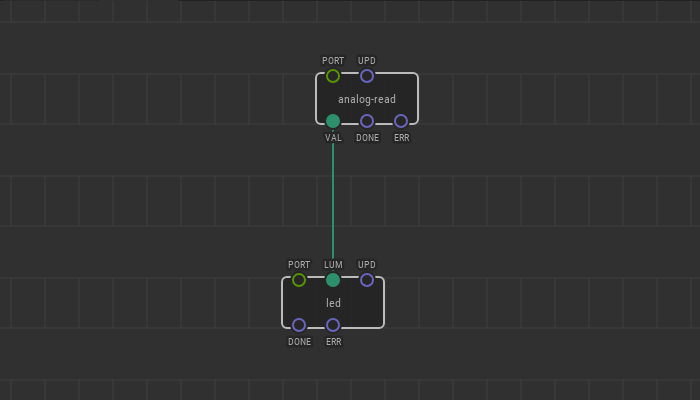
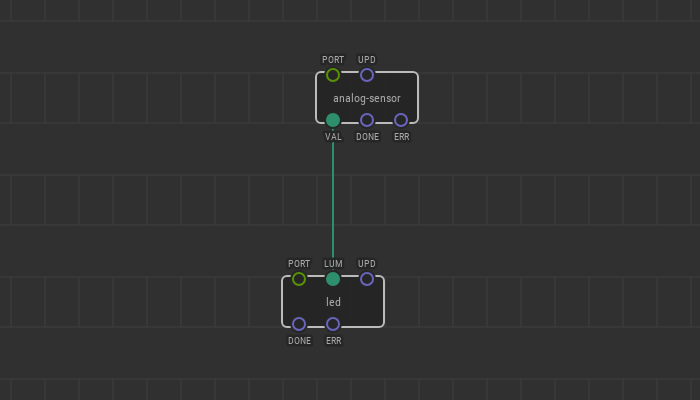
fix(tutorial): proper PORT literals, mention new pins, use analog-sensor

diff --git a/docs/tutorial/21-pulses/README.md b/docs/tutorial/21-pulses/README.md
@@ -22,7 +22,7 @@ message to trigger something else. It does not transmit any data. However, it
 is useful when you need to convey that an event has occurred or tell something
 else to work.
 
-For example, say you only want an `analog-sensor` node to receive information
+For example, say you only want an `pot` node to receive information
 from a board port at certain intervals, and not all the time. This frequency
 can be set with the help of pulses.
 
@@ -32,15 +32,17 @@ Each time a pulse arrives on the `UPD` pin, the node reads the analog port and
 outputs the value to the `VAL` pin. This value will be stored there until it
 changes to another value.
 
+The same is for the `servo`. It will send the updated value to the hardware
+only when receives a pulse to `UPD`.
+
 The behavior of the `UPD` pin can also be set in the Inspector. For a pot the
 choice means:
 
-* `Never`: Never produce pulses, i.e. Do not take readings from the analog port
+* `Never`: Never produce pulses. That is, do not take readings or make updates
   at all.
-* `On boot`: Generate a pulse once at startup. We will update the state exactly
-  once.
-* `Continuously`: Generate pulses constantly, i.e. take the readings from the
-  analog port with the highest possible rate.
+* `On boot`: Generate a pulse once at startup. Updates the state exactly once.
+* `Continuously`: Generate pulses constantly, i.e. take the readings or make
+  updates with the highest possible rate.
 
 ## Test circuit
 

diff --git a/docs/tutorial/01-hello/README.md b/docs/tutorial/01-hello/README.md
@@ -20,9 +20,9 @@ visual objects instead.
 ## Patch board
 
 The large gray field with a box is your program. It’s called a *patch*. In this
-patch you can see one interesting object – the `led` node — a grey
-rectangle with two little green circles. You will be able to make complicated
-programs, using these rectangles.
+patch you can see one interesting object – the `led` node — a grey rectangle
+with little circles. You will be able to make complicated programs, using these
+rectangles.
 
 You can move nodes by dragging them. Position on the patch board does not
 affect your program, but can make it more readable.

diff --git a/docs/tutorial/03-inspector/README.md b/docs/tutorial/03-inspector/README.md
@@ -16,7 +16,8 @@ A node is a visual representation of some physical device (such as the ports on
 an Arduino) or some function (adding, subtracting and more complicated stuff).
 
 The `led` is a simple LED controlling node. It can control only a one-colored
-LED. The node has only input pins — `PORT` and `LUM`.
+LED. The node has input pins `PORT` and `LUM` along with a few other pins you
+can ignore for now.
 
 ![Patch](./patch.png)
 

diff --git a/docs/tutorial/09-pot/README.md b/docs/tutorial/09-pot/README.md
@@ -29,7 +29,7 @@ find it in the `xod/common-hardware` library.
 ## How-to
 
 1. Add the `pot` node to your patch.
-2. Set the `PORT` pin value on the `pot` node to 0 if you have connected
+2. Set the `PORT` pin value on the `pot` node to A0 if you have connected
    the potentiometer to Arduino port A0 as shown above.
 3. Link the `pot` node `VAL` pin to input pins of nodes to control.
 
